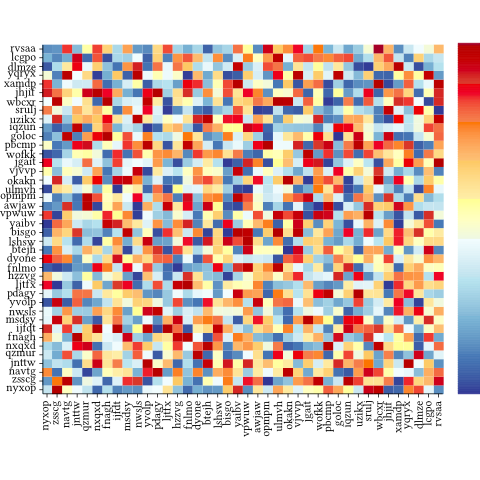
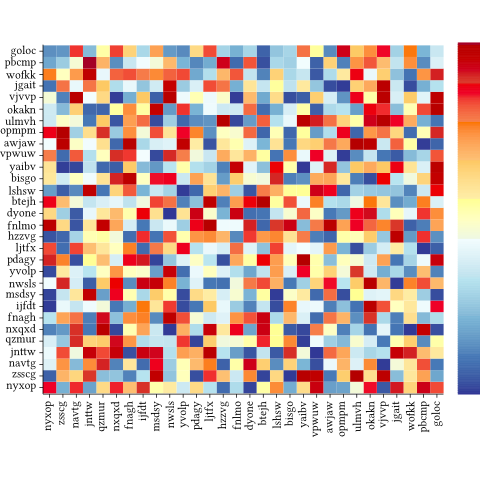
edit readme

diff --git a/README.md b/README.md
@@ -1,111 +1,8 @@
-<h1 id="haskell-plot">Haskell-Plot</h1>
-<p>I'm starting from scratch to write a new plotting library based on <a href="http://projects.haskell.org/diagrams/">Diagrams</a>. The old package can be found in the &quot;Old&quot; directory. The library in Hackage is outdated.</p>
-<h1 id="header">Header</h1>
-<pre class="sourceCode literate haskell"><code class="sourceCode haskell"><span class="ot">{-# LANGUAGE TemplateHaskell #-}</span>
-<span class="ot">{-# LANGUAGE UnicodeSyntax #-}</span></code></pre>
-<pre class="sourceCode literate haskell"><code class="sourceCode haskell"><span class="kw">import </span><span class="dt">Diagrams.Prelude</span>
-<span class="kw">import </span><span class="dt">Diagrams.Backend.SVG</span>
-<span class="kw">import </span><span class="dt">Data.Default</span>
-<span class="kw">import </span><span class="dt">System.Random</span>
-<span class="kw">import </span><span class="dt">Graphics.Rendering.HPlot</span></code></pre>
-<h1 id="make-axis">Make axis</h1>
-<p>Currently the <strong>Axis</strong> type contains three components:</p>
-<ol style="list-style-type: decimal">
-<li>point map</li>
-<li>labels and their positions</li>
-<li>the actual axis with type &quot;Diagram B R2&quot;</li>
-</ol>
-<p>We usually do not use <strong>Axis</strong> directly, instead, we creat an action/function which takes a number (the length of axis) and generates the axis. Such functions are wrapped in the <strong>AxisFn</strong> type. <strong>AxisFn</strong>s are building blocks of chart. I wrote some general functions to help create <strong>AxisFn</strong>, i.e., realAxis, indexAxis, emptyAxis.</p>
-<pre class="sourceCode literate haskell"><code class="sourceCode haskell">xs <span class="ot">∷</span> [<span class="dt">Double</span>]
-xs <span class="fu">=</span> take <span class="dv">50</span> <span class="fu">$</span> randomRs (<span class="fu">-</span><span class="dv">100</span>, <span class="dv">100</span>) <span class="fu">$</span> mkStdGen <span class="dv">2</span>
+Haskell-plot
+============
 
-ys <span class="ot">∷</span> [<span class="dt">Double</span>]
-ys <span class="fu">=</span> take <span class="dv">50</span> <span class="fu">$</span> randomRs (<span class="fu">-</span><span class="dv">100</span>, <span class="dv">100</span>) <span class="fu">$</span> mkStdGen <span class="dv">4</span>
+2D plotting library based on Diagrams.
 
-xAxis <span class="ot">∷</span> <span class="dt">AxisFn</span>
-xAxis <span class="fu">=</span> realAxis (minimum xs, maximum xs) <span class="dv">0</span><span class="fu">.</span><span class="dv">2</span> def
-
-yAxis <span class="ot">∷</span> <span class="dt">AxisFn</span>
-yAxis <span class="fu">=</span> realAxis (minimum ys, maximum ys) <span class="dv">0</span><span class="fu">.</span><span class="dv">2</span> def</code></pre>
-<p>The <strong>PlotArea</strong> contains four axes: left axis, top axis, right axis and bottom axis. We can use <strong>plotArea</strong> to create a <strong>PlotArea</strong>.</p>
-<pre class="sourceCode literate haskell"><code class="sourceCode haskell">area <span class="ot">∷</span> <span class="dt">PlotArea</span>
-area <span class="fu">=</span> plotArea <span class="dv">5</span><span class="fu">.</span><span class="dv">5</span> <span class="dv">4</span><span class="fu">.</span><span class="dv">8</span>
-       ( yAxis  <span class="co">-- left axis</span>
-       , def  <span class="co">-- top axis, using default axis which is a line</span>
-       , def  <span class="co">-- right axis</span>
-       , xAxis <span class="co">-- bottom axis</span>
-       )</code></pre>
-<p><strong>PlotArea</strong> can be converted to a Diagram by <strong>showPlot</strong>.</p>
-<pre class="sourceCode literate haskell"><code class="sourceCode haskell">areaDiag <span class="ot">∷</span> <span class="dt">Diagram</span> <span class="dt">B</span> <span class="dt">R2</span>
-areaDiag <span class="fu">=</span> showPlot area</code></pre>
-<div class="figure">
-<img src="doc/area.png" />
-</div>
-<p>Now that we have the plotArea, we can start adding actual plots. For example, we can use points to make point plot:</p>
-<pre class="sourceCode literate haskell"><code class="sourceCode haskell">ps <span class="fu">=</span> points xs ys def</code></pre>
-<pre class="sourceCode literate haskell"><code class="sourceCode haskell">pointPlot <span class="fu">=</span> area <span class="fu">&lt;+</span> (ps, <span class="dt">BL</span>) <span class="co">-- attach plot to plot area according to bottom and left axes</span></code></pre>
-<div class="figure">
-<img src="doc/points.png" />
-</div>
-<p>You can attach any number of plots to plotArea:</p>
-<pre class="sourceCode literate haskell"><code class="sourceCode haskell">ls <span class="fu">=</span> line xs ys def
-linePointPlot <span class="fu">=</span> area <span class="fu">&lt;+</span> (ps, <span class="dt">BL</span>) <span class="fu">&lt;+</span> (ls, <span class="dt">BL</span>)</code></pre>
-<div class="figure">
-<img src="doc/lp.png" />
-</div>
-<p>You can create an indexed Axis by indexAxis:</p>
-<pre class="sourceCode literate haskell"><code class="sourceCode haskell">bottomAxis <span class="fu">=</span> indexAxis <span class="dv">50</span> [] <span class="dv">0</span><span class="fu">.</span><span class="dv">2</span> def</code></pre>
-<p>Now let's create a plot area with 3 axes: left, bottom and right</p>
-<pre class="sourceCode literate haskell"><code class="sourceCode haskell">ys&#39; <span class="ot">∷</span> [<span class="dt">Double</span>]
-ys&#39; <span class="fu">=</span> take <span class="dv">50</span> <span class="fu">$</span> randomRs (<span class="fu">-</span><span class="dv">1</span>, <span class="dv">1</span>) <span class="fu">$</span> mkStdGen <span class="dv">2</span>
-
-yAxis&#39; <span class="fu">=</span> realAxis (minimum ys&#39;, maximum ys&#39;) <span class="dv">0</span><span class="fu">.</span><span class="dv">2</span> def
-
-area&#39; <span class="fu">=</span> plotArea <span class="dv">5</span><span class="fu">.</span><span class="dv">5</span> <span class="dv">4</span><span class="fu">.</span><span class="dv">8</span> (yAxis, def, yAxis&#39;, bottomAxis)
-
-l1 <span class="fu">=</span> line <span class="dt">Nothing</span> ys def <span class="st"># lc green</span>
-l2 <span class="fu">=</span> line <span class="dt">Nothing</span> ys&#39; def <span class="st"># lc red</span>
-
-plot <span class="fu">=</span> area&#39; <span class="fu">&lt;+</span> (l1, <span class="dt">BL</span>) <span class="fu">&lt;+</span> (l2, <span class="dt">BR</span>)</code></pre>
-<div class="figure">
-<img src="doc/doublePlot.png" />
-</div>
-<p>Note that the green line is placed according to left axis, and the red line is placed according to right axis.</p>
-<h1 id="bar-plot">Bar plot</h1>
-<p>Let's try to make some bar plots in this section.</p>
-<pre class="sourceCode literate haskell"><code class="sourceCode haskell">vals <span class="ot">∷</span> [<span class="dt">Double</span>]
-vals <span class="fu">=</span> take <span class="dv">10</span> <span class="fu">$</span> randomRs (<span class="fu">-</span><span class="dv">100</span>, <span class="dv">100</span>) <span class="fu">$</span> mkStdGen <span class="dv">21</span>
-
-labels <span class="fu">=</span> [<span class="st">&quot;a&quot;</span>,<span class="st">&quot;b&quot;</span>,<span class="st">&quot;c&quot;</span>,<span class="st">&quot;d&quot;</span>,<span class="st">&quot;e&quot;</span>,<span class="st">&quot;f&quot;</span>,<span class="st">&quot;g&quot;</span>,<span class="st">&quot;h&quot;</span>,<span class="st">&quot;i&quot;</span>,<span class="st">&quot;j&quot;</span>]
-
-valAxis <span class="fu">=</span> realAxis (minimum vals, maximum vals) <span class="dv">0</span><span class="fu">.</span><span class="dv">2</span> def
-
-labAxis <span class="fu">=</span> indexAxis <span class="dv">10</span> labels <span class="dv">0</span><span class="fu">.</span><span class="dv">4</span> def
-
-bs <span class="fu">=</span> bars labels vals def <span class="st"># fc blue</span>
-
-barArea <span class="fu">=</span> plotArea <span class="dv">5</span><span class="fu">.</span><span class="dv">5</span> <span class="dv">4</span><span class="fu">.</span><span class="dv">8</span> (valAxis, def, def, labAxis)
-
-barPlot <span class="fu">=</span> barArea <span class="fu">&lt;+</span> (bs, <span class="dt">BL</span>)</code></pre>
-<div class="figure">
-<img src="doc/bar.png" />
-</div>
-<p>You can make a horizontal bar plot by swapping the axes:</p>
-<pre class="sourceCode literate haskell"><code class="sourceCode haskell">hBarArea <span class="fu">=</span> plotArea <span class="dv">5</span><span class="fu">.</span><span class="dv">5</span> <span class="dv">4</span><span class="fu">.</span><span class="dv">8</span> (labAxis, def, def, valAxis)
-
-<span class="co">-- swap vals and labels, change bar orientation</span>
-bs&#39; <span class="fu">=</span> bars vals labels (barOrientation <span class="fu">.~</span> <span class="ch">&#39;&gt;&#39;</span> <span class="fu">$</span> def) <span class="st"># fc blue</span>
-
-hBarPlot <span class="fu">=</span> hBarArea <span class="fu">&lt;+</span> (bs&#39;, <span class="dt">BL</span>)</code></pre>
-<div class="figure">
-<img src="doc/hbar.png" />
-</div>
-<p>Another bar plot:</p>
-<pre class="sourceCode literate haskell"><code class="sourceCode haskell">bsWithBase <span class="fu">=</span> bars labels vals (barBaseLine <span class="fu">.~</span> <span class="dt">Just</span> <span class="dv">0</span> <span class="fu">$</span> def) <span class="st"># fc blue</span>
-
-barPlot&#39; <span class="fu">=</span> barArea <span class="fu">&lt;+</span> (bsWithBase, <span class="dt">BL</span>)</code></pre>
-<div class="figure">
-<img src="doc/biBar.png" />
-</div>
-<p>The main function used to produce svg file:</p>
-<pre class="sourceCode literate haskell"><code class="sourceCode haskell">main <span class="fu">=</span> renderSVG <span class="st">&quot;plot.svg&quot;</span> (<span class="dt">Dims</span> <span class="dv">480</span> <span class="dv">480</span>) <span class="fu">$</span> showPlot barPlot&#39;</code></pre>
+<ul style="list-style-type:none">
+    <li style="display:inline"><a href="gallery/heatmap.md"><img height=200 width=200 src="gallery/heatmap.png" /></a></li>
+</ul>
